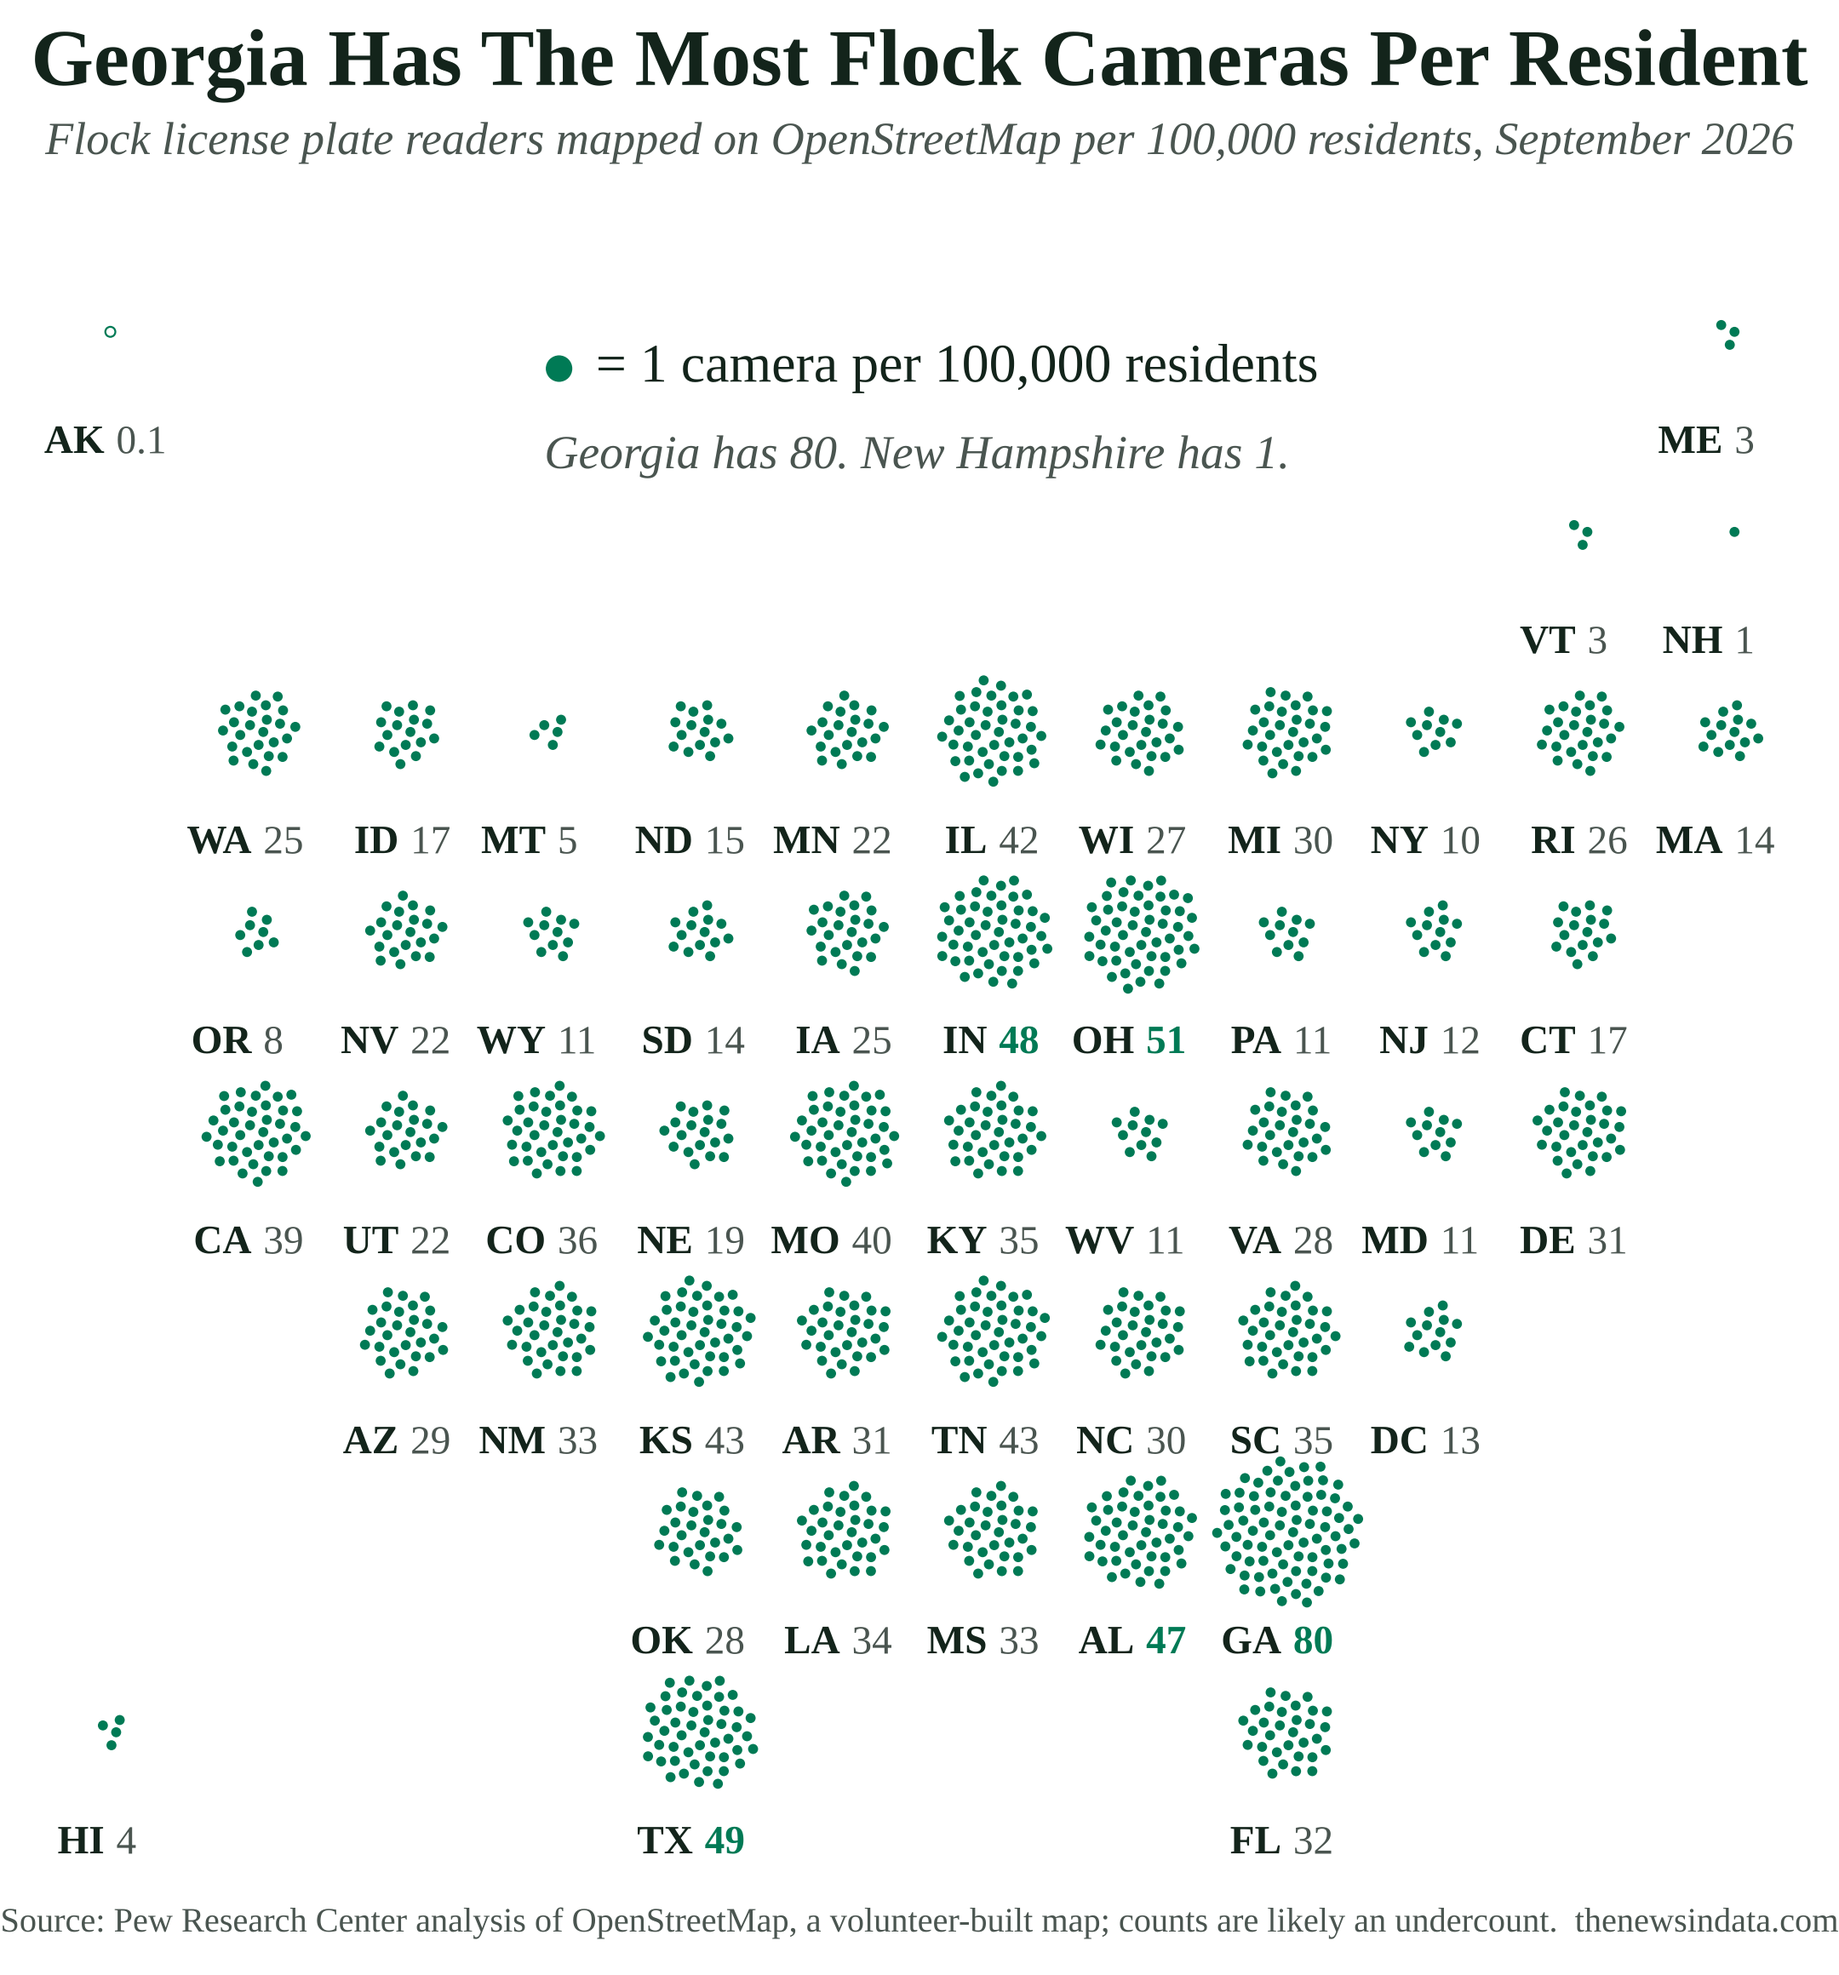
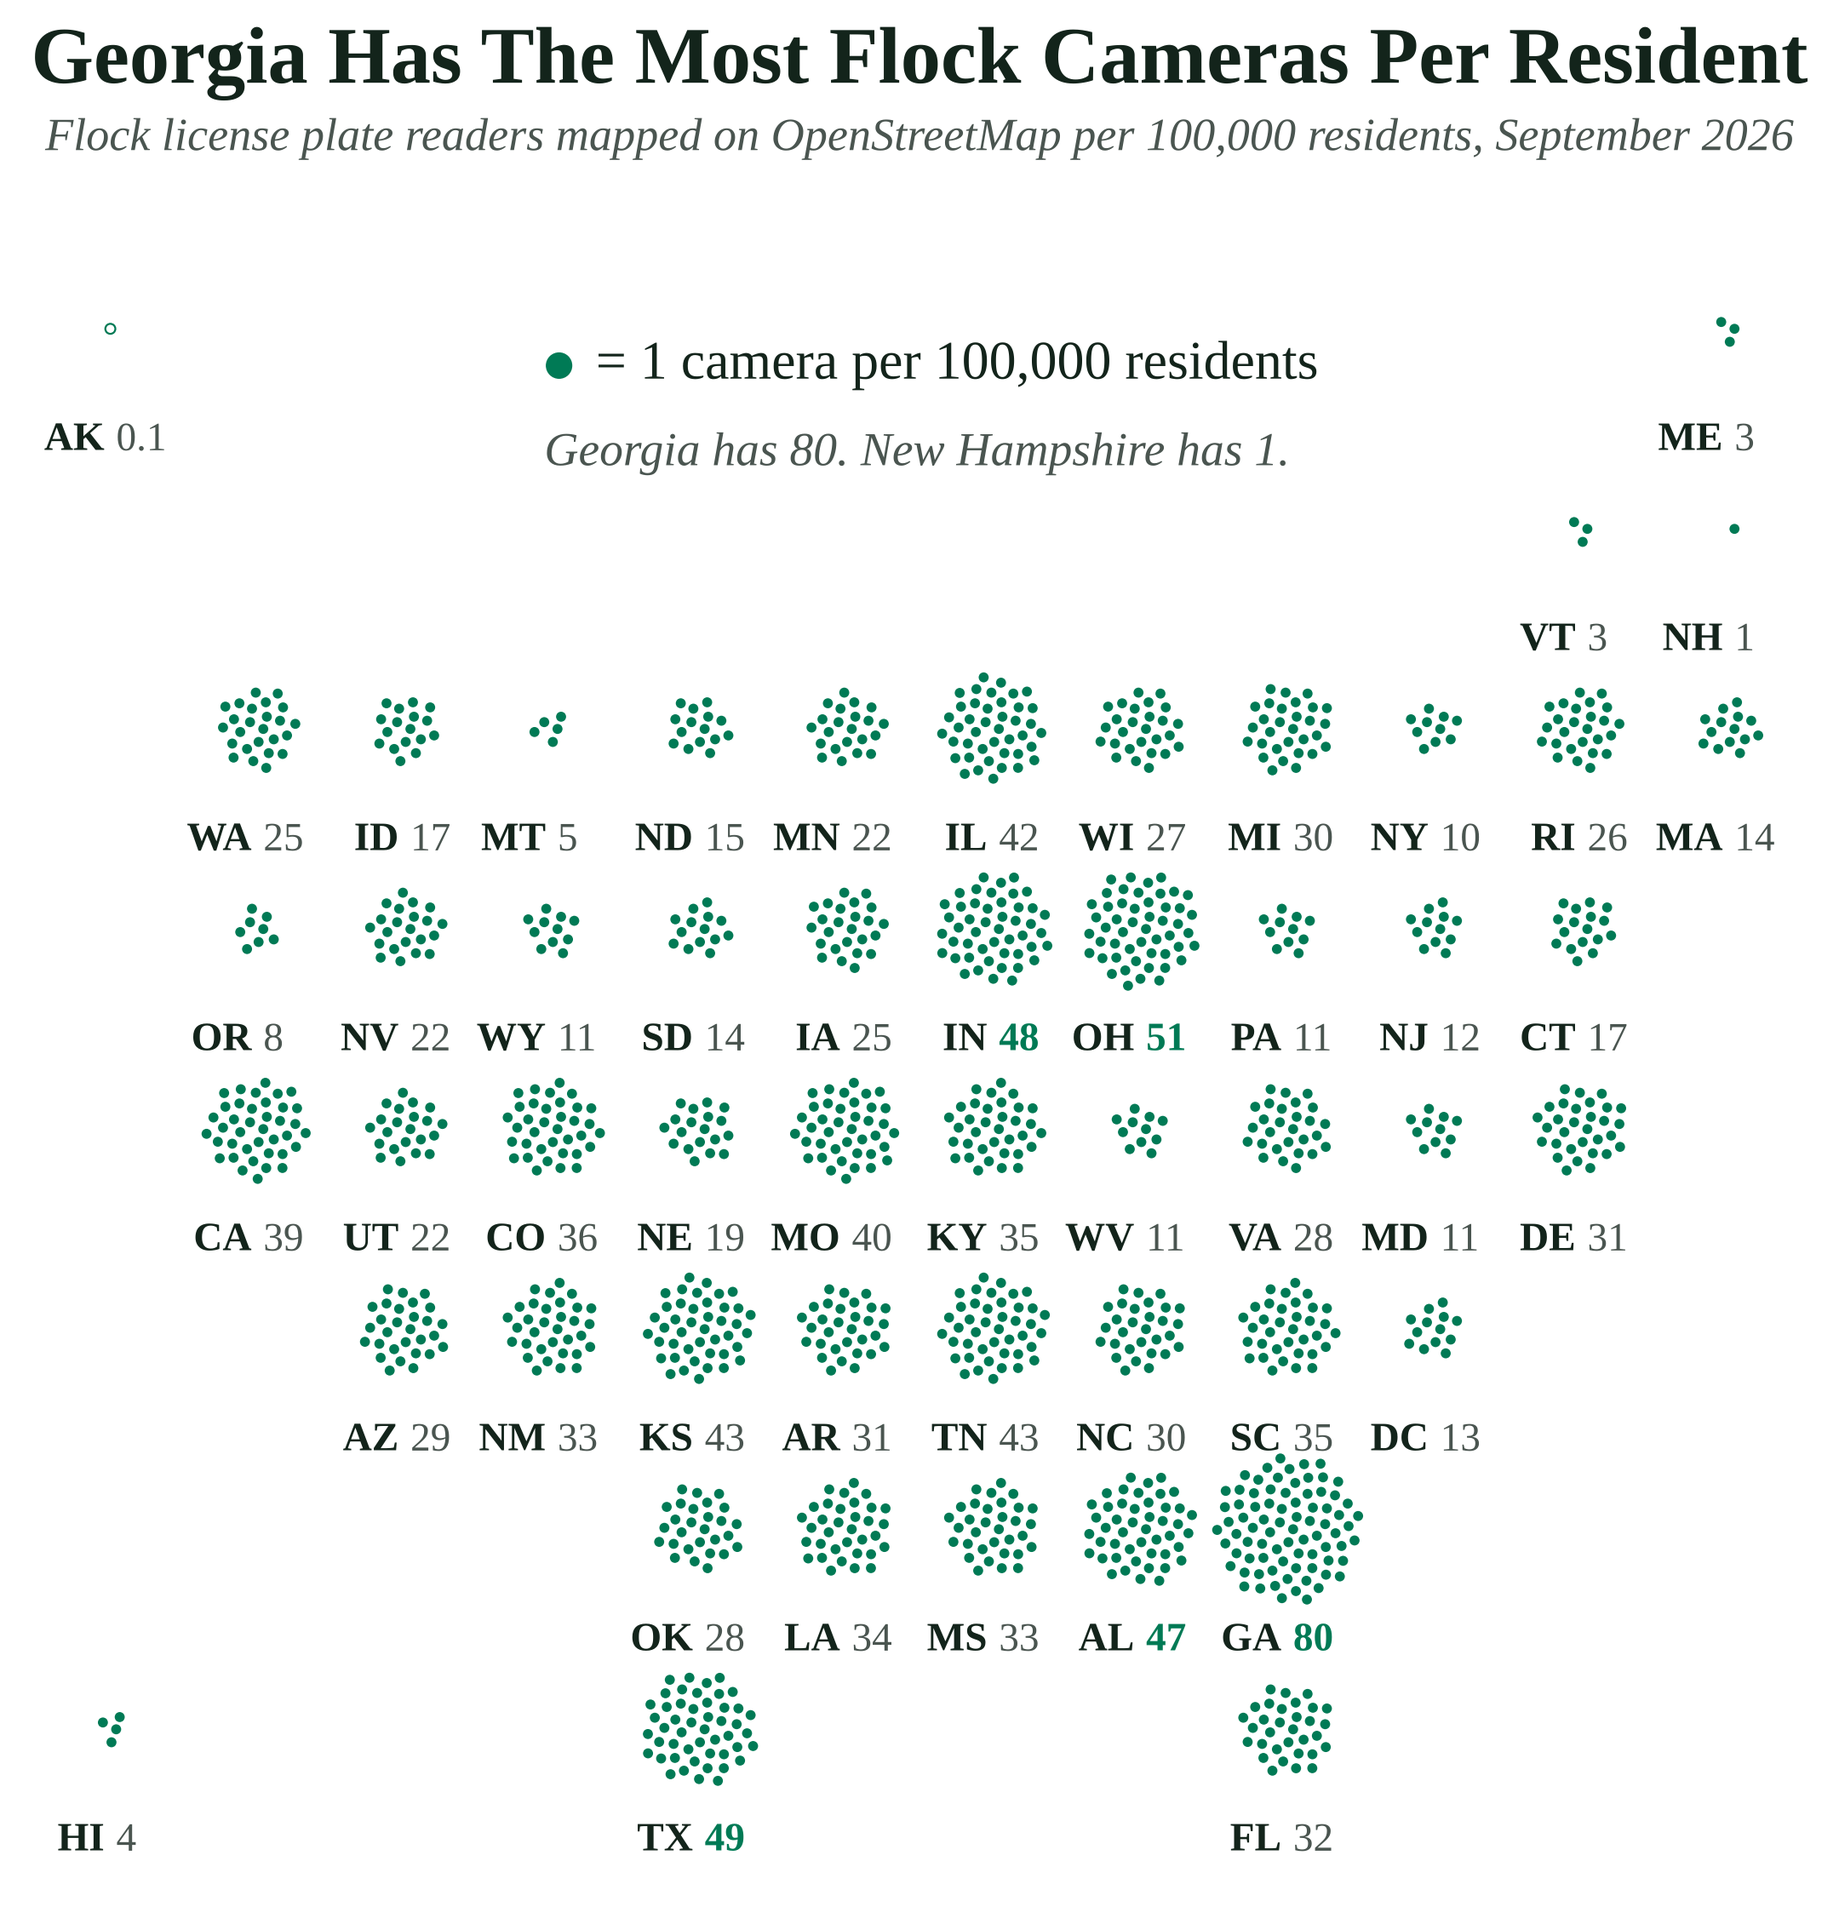
Flock map: remove source line from figure
Claude-Session: https://claude.ai/code/session_014ps2HoqtiaDX9KtWWc6m6n

diff --git a/flock/index.html b/flock/index.html
@@ -1,7 +1,7 @@
 <!doctype html><meta charset="utf-8"><meta name="viewport" content="width=device-width,initial-scale=1"><meta name="robots" content="noindex"><title>Flock (preview)</title><body style="max-width:760px;margin:0 auto;padding:16px;font-family:Georgia,serif;background:#fff"><style>.nid-a h2{margin:1.6em 0 .5em}.nid-a .nid-fig{margin:2.4em auto;max-width:620px}.nid-a .nid-fig img{width:100%;height:auto;display:block;border:1px solid #e6e3dd;border-radius:6px}.nid-a .nid-photo{max-width:520px}.nid-a .nid-fig figcaption{font-size:.82em;color:#5f7268;margin-top:.5em;line-height:1.4}.nid-a .nid-method{font-size:.92em;margin-top:2em}.nid-a .nid-fig.nid-wide{max-width:100%}.nid-a .nid-wide img{border-radius:8px}</style><div class="nid-a">
 <p>Flock Safety's license plate cameras now sit on poles in thousands of American towns, and how many your state has depends a lot on where you live. Georgia, where the company is based, has 80 of them for every 100,000 residents, according to a Pew Research Center analysis published Nov. 9. New Hampshire has one per 100,000 and Alaska has a single camera on the map.</p>
 <p>The count comes from OpenStreetMap, a public map built by volunteers, because Flock does not publish where its cameras are. Pew found 109,577 Flock cameras on the map as of Sept. 17, 2026, which works out to 32 for every 100,000 people in the country.</p>
-<figure class="nid-fig nid-wide"><img src="./flock-map-tall.png?v=1" alt="Map of the states drawn as clusters of dots, one dot for each Flock license plate camera per 100,000 residents. Georgia has 80, Ohio 51, Texas 49, Indiana 48 and Alabama 47; New Hampshire has 1 and Alaska 0.1." width="2160" height="2320"></figure>
+<figure class="nid-fig nid-wide"><img src="./flock-map-tall.png?v=1" alt="Map of the states drawn as clusters of dots, one dot for each Flock license plate camera per 100,000 residents. Georgia has 80, Ohio 51, Texas 49, Indiana 48 and Alabama 47; New Hampshire has 1 and Alaska 0.1." width="2160" height="2260"></figure>
 <h2>Where the cameras are</h2>
 <p>After Georgia, the highest rates are in Ohio (51 per 100,000), Texas (49), Indiana (48) and Alabama (47). The lowest are in Alaska (0.1), New Hampshire (1), Maine (3), Vermont (3) and Hawaii (4). Much of the Northeast sits near the bottom, with New York at 10 and Pennsylvania at 11.</p>
 <figure class="nid-fig nid-photo nid-wide"><img src="https://upload.wikimedia.org/wikipedia/commons/thumb/8/88/Flock_Safety_ALPR_Camera_%2853833285849%29.jpg/1280px-Flock_Safety_ALPR_Camera_%2853833285849%29.jpg" alt="A black Flock Safety license plate camera and solar panel mounted on a pole" loading="lazy"><figcaption>A Flock Safety license plate reader outside a store in Aurora, Colorado, in June 2024. Photo: <a href="https://commons.wikimedia.org/wiki/File:Flock_Safety_ALPR_Camera_%2853833285849%29.jpg">Tony Webster</a>, <a href="https://creativecommons.org/licenses/by/2.0/">CC BY 2.0</a>, via Wikimedia Commons.</figcaption></figure>

diff --git a/flock/post-body.html b/flock/post-body.html
@@ -1,7 +1,7 @@
 <style>.nid-a h2{margin:1.6em 0 .5em}.nid-a .nid-fig{margin:2.4em auto;max-width:620px}.nid-a .nid-fig img{width:100%;height:auto;display:block;border:1px solid #e6e3dd;border-radius:6px}.nid-a .nid-photo{max-width:520px}.nid-a .nid-fig figcaption{font-size:.82em;color:#5f7268;margin-top:.5em;line-height:1.4}.nid-a .nid-method{font-size:.92em;margin-top:2em}.nid-a .nid-fig.nid-wide{max-width:100%}.nid-a .nid-wide img{border-radius:8px}</style><div class="nid-a">
 <p>Flock Safety's license plate cameras now sit on poles in thousands of American towns, and how many your state has depends a lot on where you live. Georgia, where the company is based, has 80 of them for every 100,000 residents, according to a Pew Research Center analysis published Nov. 9. New Hampshire has one per 100,000 and Alaska has a single camera on the map.</p>
 <p>The count comes from OpenStreetMap, a public map built by volunteers, because Flock does not publish where its cameras are. Pew found 109,577 Flock cameras on the map as of Sept. 17, 2026, which works out to 32 for every 100,000 people in the country.</p>
-<figure class="nid-fig nid-wide"><img src="https://stories.thenewsindata.com/flock/flock-map-tall.png?v=1" alt="Map of the states drawn as clusters of dots, one dot for each Flock license plate camera per 100,000 residents. Georgia has 80, Ohio 51, Texas 49, Indiana 48 and Alabama 47; New Hampshire has 1 and Alaska 0.1." width="2160" height="2320"></figure>
+<figure class="nid-fig nid-wide"><img src="https://stories.thenewsindata.com/flock/flock-map-tall.png?v=1" alt="Map of the states drawn as clusters of dots, one dot for each Flock license plate camera per 100,000 residents. Georgia has 80, Ohio 51, Texas 49, Indiana 48 and Alabama 47; New Hampshire has 1 and Alaska 0.1." width="2160" height="2260"></figure>
 <h2>Where the cameras are</h2>
 <p>After Georgia, the highest rates are in Ohio (51 per 100,000), Texas (49), Indiana (48) and Alabama (47). The lowest are in Alaska (0.1), New Hampshire (1), Maine (3), Vermont (3) and Hawaii (4). Much of the Northeast sits near the bottom, with New York at 10 and Pennsylvania at 11.</p>
 <figure class="nid-fig nid-photo nid-wide"><img src="https://upload.wikimedia.org/wikipedia/commons/thumb/8/88/Flock_Safety_ALPR_Camera_%2853833285849%29.jpg/1280px-Flock_Safety_ALPR_Camera_%2853833285849%29.jpg" alt="A black Flock Safety license plate camera and solar panel mounted on a pole" loading="lazy"><figcaption>A Flock Safety license plate reader outside a store in Aurora, Colorado, in June 2024. Photo: <a href="https://commons.wikimedia.org/wiki/File:Flock_Safety_ALPR_Camera_%2853833285849%29.jpg">Tony Webster</a>, <a href="https://creativecommons.org/licenses/by/2.0/">CC BY 2.0</a>, via Wikimedia Commons.</figcaption></figure>
